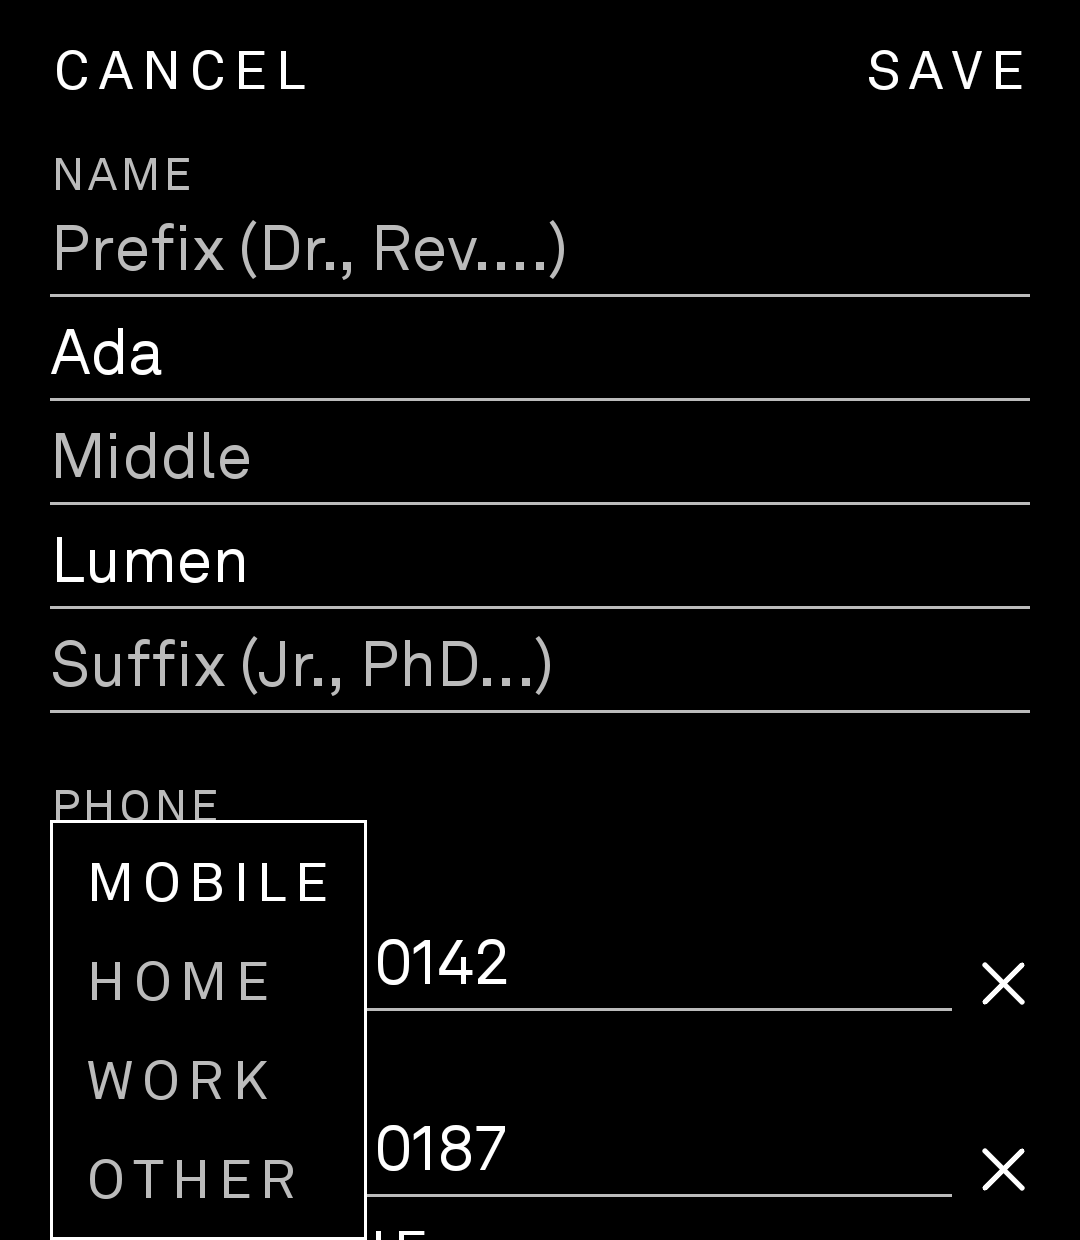
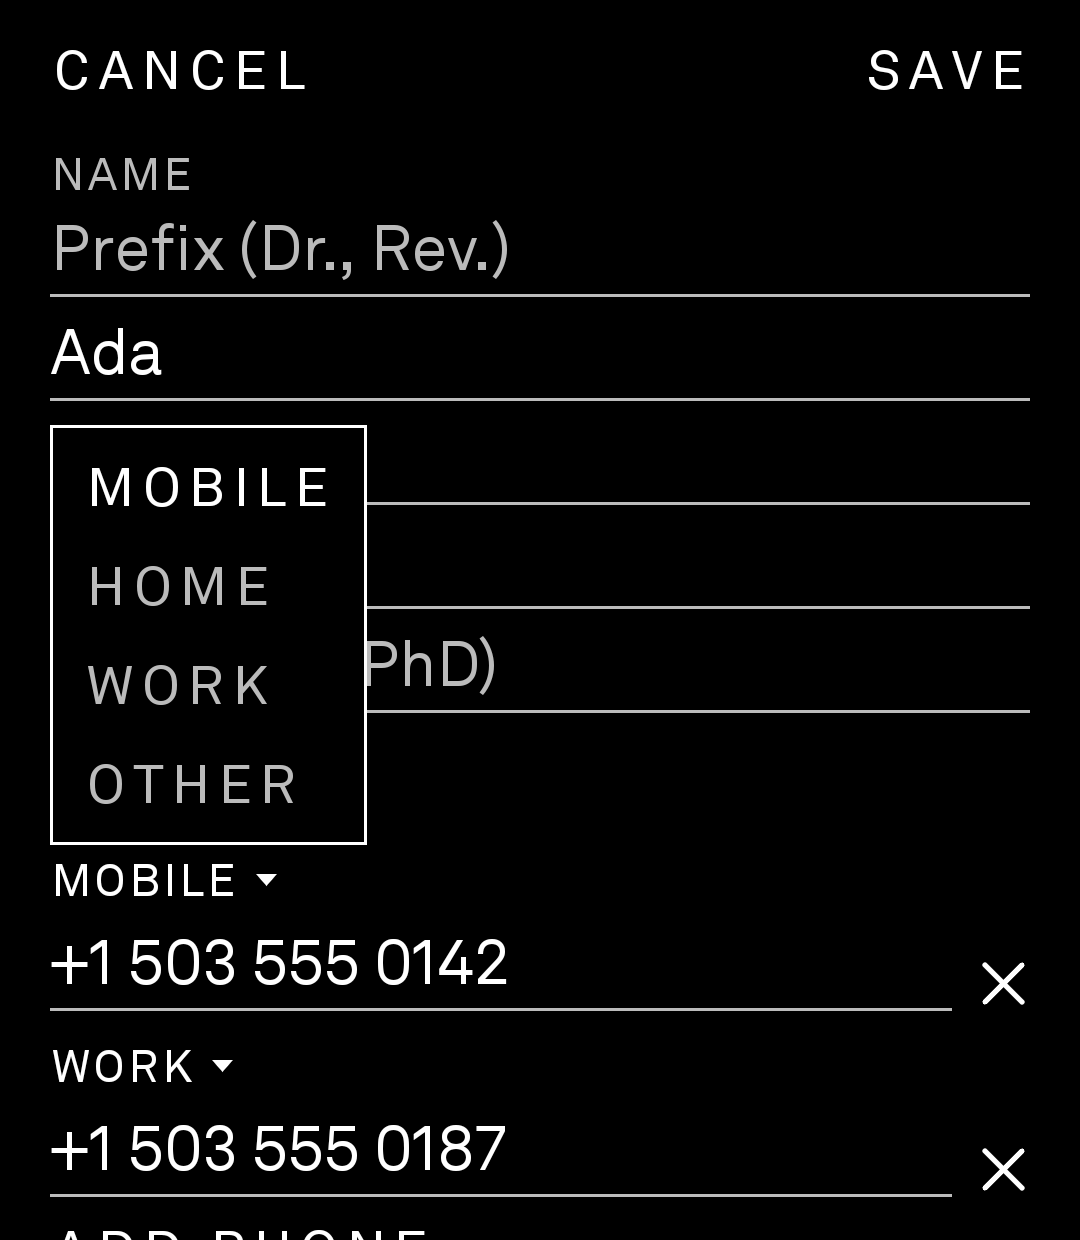
1.5.1: Dropdowns open above their label when there's no room below; tidier name hints
Menus use a position provider that flips above the anchor instead of letting Android push them over it. Prefix/suffix hints no longer show a doubled period. README: updated editor screenshot and version table.

diff --git a/app/src/main/kotlin/com/jms/fullcontacts/App.kt b/app/src/main/kotlin/com/jms/fullcontacts/App.kt
@@ -12,7 +12,11 @@ import androidx.compose.foundation.border
 import androidx.compose.foundation.layout.heightIn
 import androidx.compose.ui.layout.onSizeChanged
 import androidx.compose.ui.unit.IntOffset
+import androidx.compose.ui.unit.IntRect
+import androidx.compose.ui.unit.IntSize
+import androidx.compose.ui.unit.LayoutDirection
 import androidx.compose.ui.window.Popup
+import androidx.compose.ui.window.PopupPositionProvider
 import androidx.compose.ui.window.PopupProperties
 import androidx.compose.foundation.layout.width
 import androidx.compose.runtime.mutableIntStateOf
@@ -433,15 +437,11 @@ private fun EntryRow(entry: Entry, activity: RolodexActivity) {
 @Composable
 fun MenuButton(label: String, items: List<Pair<String, () -> Unit>>) {
     var expanded by remember { mutableStateOf(false) }
-    var height by remember { mutableIntStateOf(0) }
     Box {
-        Box(Modifier.onSizeChanged { height = it.height }) {
-            TextButton(label) { expanded = true }
-        }
+        TextButton(label) { expanded = true }
         if (expanded) {
             Popup(
-                alignment = Alignment.TopEnd,
-                offset = IntOffset(0, height),
+                popupPositionProvider = DropdownPosition(alignEnd = true),
                 onDismissRequest = { expanded = false },
                 properties = PopupProperties(focusable = true),
             ) {
@@ -452,6 +452,26 @@ fun MenuButton(label: String, items: List<Pair<String, () -> Unit>>) {
 }
 
 class MenuItem(val text: String, val selected: Boolean, val onClick: () -> Unit)
+
+/**
+ * Places a menu just below what opened it, or just above when there isn't room
+ * below. (Left alone, Android shoves a menu that doesn't fit back on screen,
+ * covering the label that opened it.)
+ */
+class DropdownPosition(private val alignEnd: Boolean) : PopupPositionProvider {
+    override fun calculatePosition(
+        anchorBounds: IntRect,
+        windowSize: IntSize,
+        layoutDirection: LayoutDirection,
+        popupContentSize: IntSize,
+    ): IntOffset {
+        val left = if (alignEnd) anchorBounds.right - popupContentSize.width else anchorBounds.left
+        val x = left.coerceIn(0, maxOf(0, windowSize.width - popupContentSize.width))
+        val fitsBelow = anchorBounds.bottom + popupContentSize.height <= windowSize.height
+        val y = if (fitsBelow) anchorBounds.bottom else maxOf(0, anchorBounds.top - popupContentSize.height)
+        return IntOffset(x, y)
+    }
+}
 
 /** The bordered black box used by dropdowns and menus. */
 @Composable

diff --git a/app/src/main/kotlin/com/jms/fullcontacts/ContactEditor.kt b/app/src/main/kotlin/com/jms/fullcontacts/ContactEditor.kt
@@ -210,11 +210,11 @@ private fun EditorFields(
     ) {
         val words = KeyboardCapitalization.Words
         SectionTitle("NAME", first = true)
-        EditField(draft.prefix, "Prefix (Dr., Rev.…)", capitalization = words) { onChange(draft.copy(prefix = it)) }
+        EditField(draft.prefix, "Prefix (Dr., Rev.)", capitalization = words) { onChange(draft.copy(prefix = it)) }
         EditField(draft.first, "First", capitalization = words) { onChange(draft.copy(first = it)) }
         EditField(draft.middle, "Middle", capitalization = words) { onChange(draft.copy(middle = it)) }
         EditField(draft.last, "Last", capitalization = words) { onChange(draft.copy(last = it)) }
-        EditField(draft.suffix, "Suffix (Jr., PhD…)", capitalization = words) { onChange(draft.copy(suffix = it)) }
+        EditField(draft.suffix, "Suffix (Jr., PhD)", capitalization = words) { onChange(draft.copy(suffix = it)) }
 
         ItemsSection(EditKind.PHONES, draft, onChange, newKey)
         ItemsSection(EditKind.EMAILS, draft, onChange, newKey)
@@ -294,14 +294,12 @@ private fun ItemsSection(
 @Composable
 private fun TypeDropdown(kind: EditKind, item: DraftItem, onSelect: (TypeOption) -> Unit) {
     var expanded by remember { mutableStateOf(false) }
-    var labelHeight by remember { mutableIntStateOf(0) }
     val style = labelStyle().copy(color = LightStyle.content)
 
     Box {
         Row(
             verticalAlignment = Alignment.CenterVertically,
             modifier = Modifier
-                .onSizeChanged { labelHeight = it.height }
                 .flatClickable { expanded = true }
                 .padding(vertical = designDp(4f)),
         ) {
@@ -323,8 +321,7 @@ private fun TypeDropdown(kind: EditKind, item: DraftItem, onSelect: (TypeOption)
 
         if (expanded) {
             Popup(
-                alignment = Alignment.TopStart,
-                offset = IntOffset(0, labelHeight),
+                popupPositionProvider = DropdownPosition(alignEnd = false),
                 onDismissRequest = { expanded = false },
                 properties = PopupProperties(focusable = true),
             ) {

diff --git a/README.md b/README.md
@@ -125,6 +125,7 @@ Versions follow **MAJOR.MINOR.PATCH**: MINOR goes up for new features, and PATCH
 
 | Version | Changes |
 |---|---|
+| 1.5.1 | Dropdowns open above their label when there's no room below; tidier name hints |
 | 1.5.0 | Answers other apps (add, edit, pick, quick contact, .vcf import); SHARE as text or .vcf |
 | 1.4.3 | Tighter gap under search; email above address |
 | 1.4.2 | Larger list text; dropdowns for field types |
